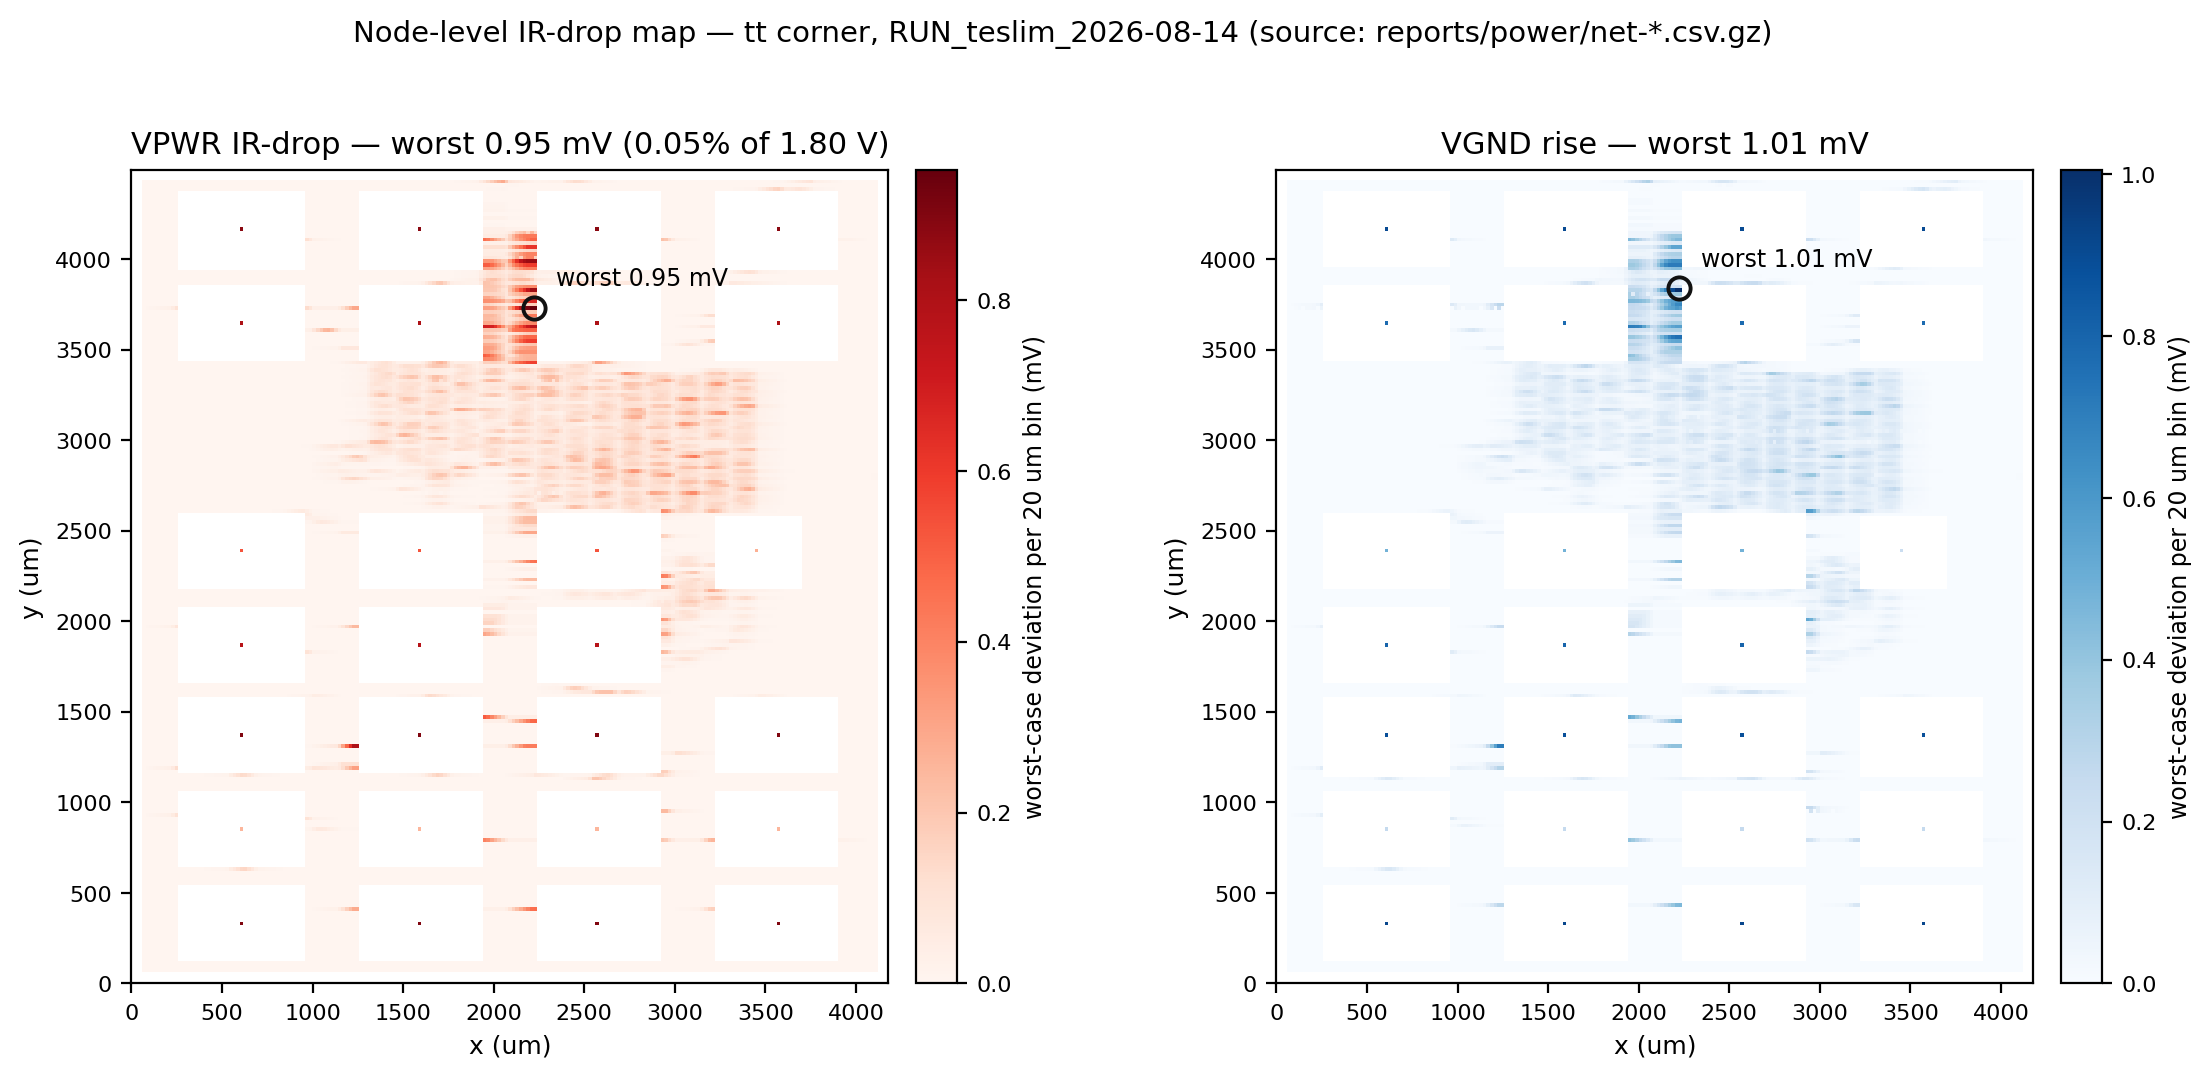
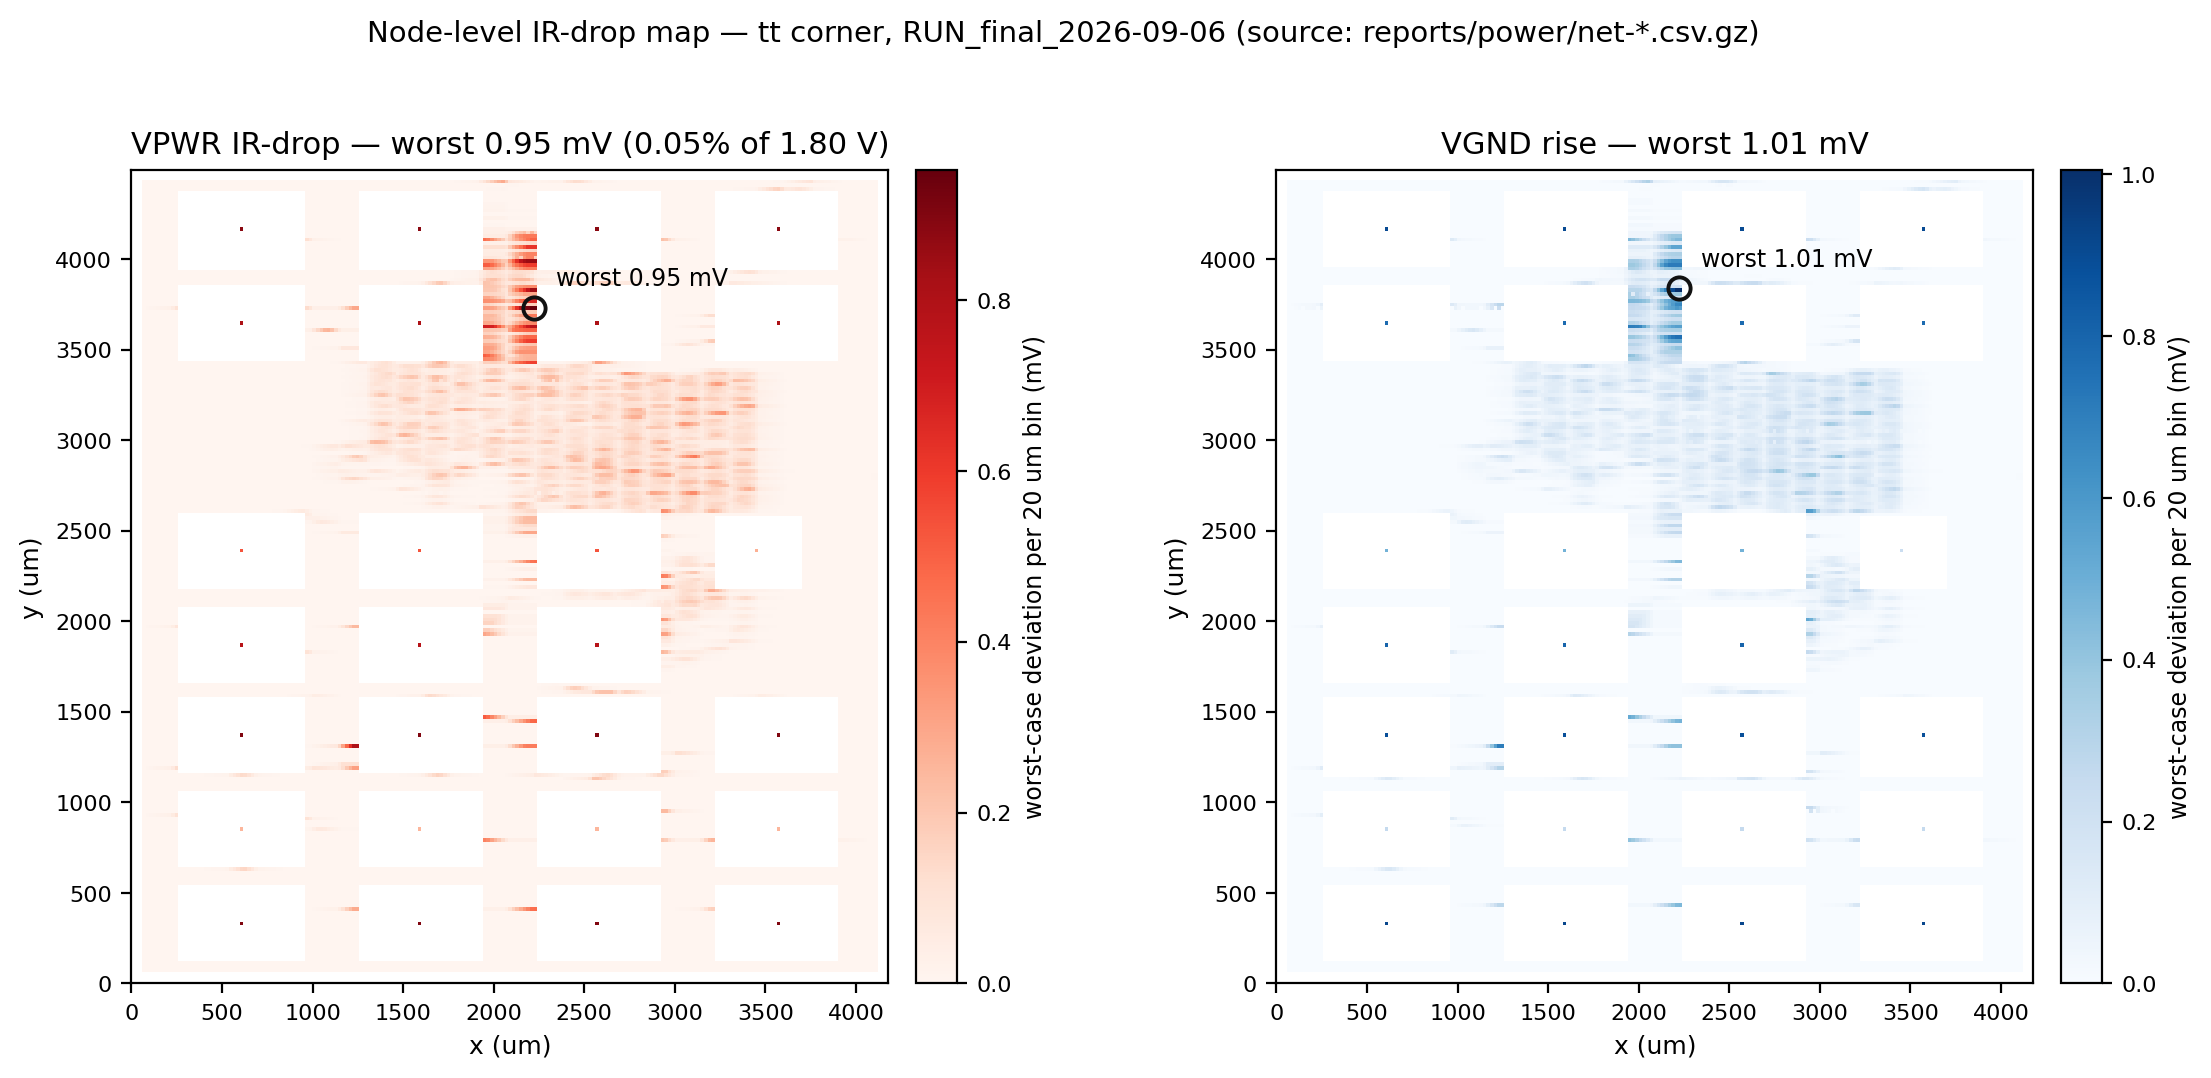
asic: gorsel betiklerinde kosu etiketi RUN_final_2026-09-06 - IR-drop isi haritasi ve setup-slack histogrami basliklariyla yeniden uretildi

Changed region(s): [[0.156, 0.0, 0.8114, 0.0612]]

diff --git a/asic/scripts/irdrop_heatmap.py b/asic/scripts/irdrop_heatmap.py
@@ -3,7 +3,7 @@
 
 Reads reports/power/net-VPWR.csv[.gz] and net-VGND.csv[.gz]
 (format: Instance,Terminal,Layer,X location,Y location,Voltage; microns/volts,
-produced by OpenROAD analyze_power_grid, RUN_teslim_2026-08-14) and renders
+produced by OpenROAD analyze_power_grid, RUN_final_2026-09-06) and renders
 the WORST-CASE voltage deviation per 20 um bin across the die:
 
   VPWR: drop  = VDD_NOM - V   (nominal 1.80 V)
@@ -94,7 +94,7 @@ def main():
         cb.set_label("worst-case deviation per %.0f um bin (mV)" % BIN,
                      fontsize=8.5)
         cb.ax.tick_params(labelsize=8)
-    fig.suptitle("Node-level IR-drop map — tt corner, RUN_teslim_2026-08-14 "
+    fig.suptitle("Node-level IR-drop map — tt corner, RUN_final_2026-09-06 "
                  "(source: reports/power/net-*.csv.gz)", fontsize=10.5)
     fig.tight_layout(rect=[0, 0, 1, 0.95])
     cikti = os.path.join(ASIC, "results", "images", "irdrop_heatmap.png")

diff --git a/asic/scripts/timing_histogram.py b/asic/scripts/timing_histogram.py
@@ -39,7 +39,7 @@ for ax, (dizin, ad, renk) in zip(axes, KOSELER):
     print("%-18s: %4d yol, en kotu %+0.3f ns" % (dizin, len(slacks), en_kotu))
 axes[0].set_ylabel("path count", fontsize=9)
 fig.suptitle("Setup slack distribution - 1000 worst reported paths per corner "
-             "(reports/timing/nom_*/max.rpt, RUN_teslim_2026-08-14)",
+             "(reports/timing/nom_*/max.rpt, RUN_final_2026-09-06)",
              fontsize=10.5)
 fig.tight_layout(rect=[0, 0, 1, 0.92])
 out = os.path.join(ASIC, "results", "images", "setup_slack_histogram.png")
